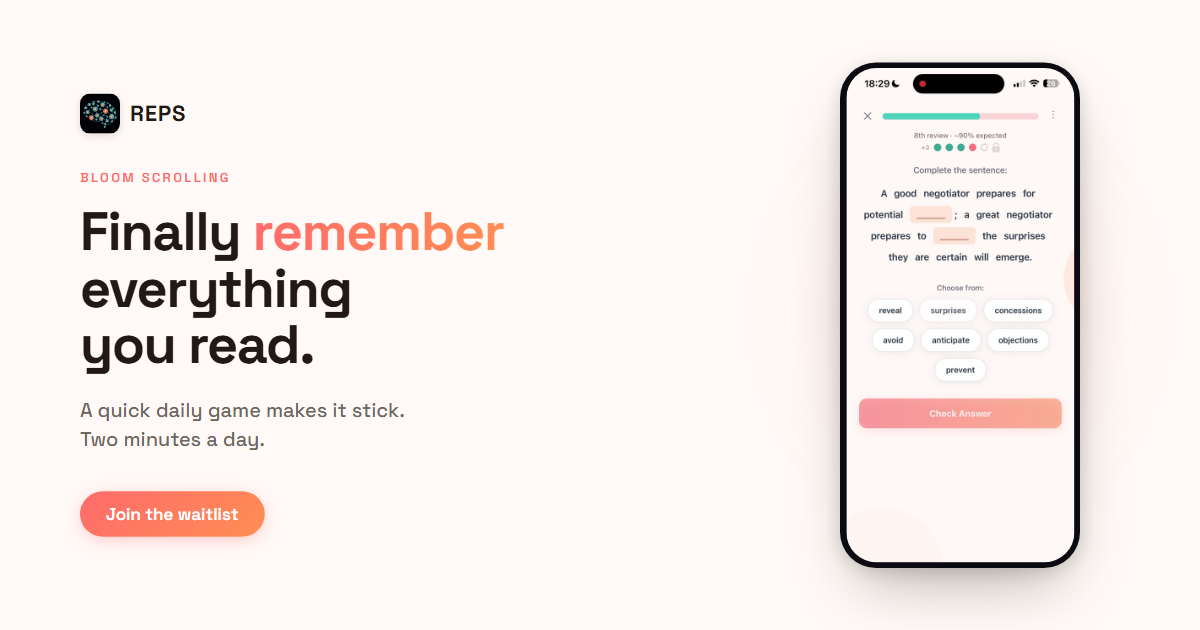
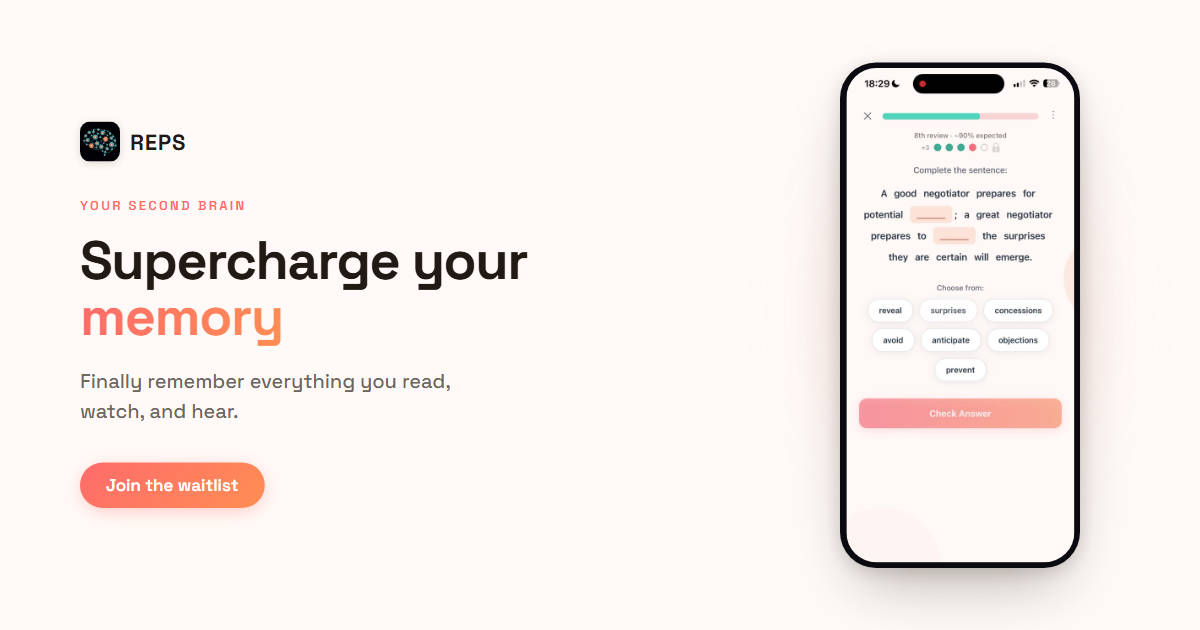
web(og): new OG card — Supercharge your memory / Your second brain eyebrow

Changed region(s): [[0.0617, 0.1508, 0.4317, 0.6635], [0.0617, 0.6937, 0.2467, 0.8746]]

diff --git a/og-card-v3-gen.html b/og-card-v3-gen.html
@@ -1,75 +1,162 @@
 <!doctype html>
 <html>
-<head>
-<meta charset="utf-8"/>
-<style>
-  * { margin: 0; padding: 0; box-sizing: border-box; }
-  html, body { width: 1200px; height: 630px; overflow: hidden; }
-  body {
-    background: #fffaf7;
-    font-family: "Space Grotesk", system-ui, -apple-system, sans-serif;
-    display: flex; align-items: center;
-    padding: 0 80px;
-    gap: 60px;
-  }
-  .left { flex: 1; }
-  .logo { display: flex; align-items: center; gap: 10px; margin-bottom: 36px; }
-  .logo img { width: 40px; height: 40px; border-radius: 10px; box-shadow: 0 2px 8px rgba(33,26,20,.14); }
-  .logo-text { font-weight: 700; font-size: 22px; letter-spacing: 0.04em; color: #211a14; }
-  .eyebrow { font-size: 13px; font-weight: 600; letter-spacing: 0.18em; text-transform: uppercase; color: #ff6b6b; margin-bottom: 18px; }
-  h1 { font-weight: 700; font-size: 54px; line-height: 1.04; letter-spacing: -0.025em; color: #211a14; margin-bottom: 22px; }
-  .grad { background: linear-gradient(100deg, #ff6b6b, #ff8e53); -webkit-background-clip: text; background-clip: text; -webkit-text-fill-color: transparent; }
-  .sub { font-size: 20px; color: rgba(33,26,20,.68); line-height: 1.5; }
-  .badge {
-    display: inline-flex; align-items: center; gap: 8px;
-    margin-top: 36px;
-    background: linear-gradient(135deg, #ff6b6b, #ff8e53);
-    color: #fff; font-weight: 600; font-size: 17px;
-    padding: 12px 26px; border-radius: 999px;
-    box-shadow: 0 4px 20px -4px rgba(255,107,107,.45);
-  }
-  .right {
-    flex: none; width: 320px;
-    display: flex; align-items: center; justify-content: center;
-    position: relative;
-  }
-  .right::before {
-    content: "";
-    position: absolute; left: -10%; right: -10%; top: 5%; bottom: 5%;
-    background: radial-gradient(ellipse, rgba(255,107,107,.14) 0%, transparent 70%);
-    filter: blur(28px);
-  }
-  .phone {
-    position: relative; z-index: 1;
-    width: 240px;
-    background: #0a0a10; border-radius: 36px; padding: 6px;
-    box-shadow: 0 4px 16px rgba(33,26,20,.14), 0 28px 64px -20px rgba(33,26,20,.36);
-  }
-  .screen {
-    width: 100%; aspect-ratio: 540/1170; border-radius: 30px;
-    overflow: hidden; background: #040409;
-  }
-  .screen img { width: 100%; height: 100%; object-fit: cover; }
-</style>
-<link href="https://fonts.googleapis.com/css2?family=Space+Grotesk:wght@500;600;700&display=swap" rel="stylesheet"/>
-</head>
-<body>
-  <div class="left">
-    <div class="logo">
-      <img src="product/assets/app-icon.png" alt="REPS"/>
-      <span class="logo-text">REPS</span>
+  <head>
+    <meta charset="utf-8" />
+    <style>
+      * {
+        margin: 0;
+        padding: 0;
+        box-sizing: border-box;
+      }
+      html,
+      body {
+        width: 1200px;
+        height: 630px;
+        overflow: hidden;
+      }
+      body {
+        background: #fffaf7;
+        font-family:
+          "Space Grotesk",
+          system-ui,
+          -apple-system,
+          sans-serif;
+        display: flex;
+        align-items: center;
+        padding: 0 80px;
+        gap: 60px;
+      }
+      .left {
+        flex: 1;
+      }
+      .logo {
+        display: flex;
+        align-items: center;
+        gap: 10px;
+        margin-bottom: 36px;
+      }
+      .logo img {
+        width: 40px;
+        height: 40px;
+        border-radius: 10px;
+        box-shadow: 0 2px 8px rgba(33, 26, 20, 0.14);
+      }
+      .logo-text {
+        font-weight: 700;
+        font-size: 22px;
+        letter-spacing: 0.04em;
+        color: #211a14;
+      }
+      .eyebrow {
+        font-size: 13px;
+        font-weight: 600;
+        letter-spacing: 0.18em;
+        text-transform: uppercase;
+        color: #ff6b6b;
+        margin-bottom: 18px;
+      }
+      h1 {
+        font-weight: 700;
+        font-size: 54px;
+        line-height: 1.04;
+        letter-spacing: -0.025em;
+        color: #211a14;
+        margin-bottom: 22px;
+      }
+      .grad {
+        background: linear-gradient(100deg, #ff6b6b, #ff8e53);
+        -webkit-background-clip: text;
+        background-clip: text;
+        -webkit-text-fill-color: transparent;
+      }
+      .sub {
+        font-size: 20px;
+        color: rgba(33, 26, 20, 0.68);
+        line-height: 1.5;
+      }
+      .badge {
+        display: inline-flex;
+        align-items: center;
+        gap: 8px;
+        margin-top: 36px;
+        background: linear-gradient(135deg, #ff6b6b, #ff8e53);
+        color: #fff;
+        font-weight: 600;
+        font-size: 17px;
+        padding: 12px 26px;
+        border-radius: 999px;
+        box-shadow: 0 4px 20px -4px rgba(255, 107, 107, 0.45);
+      }
+      .right {
+        flex: none;
+        width: 320px;
+        display: flex;
+        align-items: center;
+        justify-content: center;
+        position: relative;
+      }
+      .right::before {
+        content: "";
+        position: absolute;
+        left: -10%;
+        right: -10%;
+        top: 5%;
+        bottom: 5%;
+        background: radial-gradient(
+          ellipse,
+          rgba(255, 107, 107, 0.14) 0%,
+          transparent 70%
+        );
+        filter: blur(28px);
+      }
+      .phone {
+        position: relative;
+        z-index: 1;
+        width: 240px;
+        background: #0a0a10;
+        border-radius: 36px;
+        padding: 6px;
+        box-shadow:
+          0 4px 16px rgba(33, 26, 20, 0.14),
+          0 28px 64px -20px rgba(33, 26, 20, 0.36);
+      }
+      .screen {
+        width: 100%;
+        aspect-ratio: 540/1170;
+        border-radius: 30px;
+        overflow: hidden;
+        background: #040409;
+      }
+      .screen img {
+        width: 100%;
+        height: 100%;
+        object-fit: cover;
+      }
+    </style>
+    <link
+      href="https://fonts.googleapis.com/css2?family=Space+Grotesk:wght@500;600;700&display=swap"
+      rel="stylesheet"
+    />
+  </head>
+  <body>
+    <div class="left">
+      <div class="logo">
+        <img src="product/assets/app-icon.png" alt="REPS" />
+        <span class="logo-text">REPS</span>
+      </div>
+      <div class="eyebrow">Your second brain</div>
+      <h1>Supercharge your <span class="grad">memory</span></h1>
+      <p class="sub">
+        Finally remember everything you read,<br />watch, and hear.
+      </p>
+      <div class="badge">Join the waitlist</div>
     </div>
-    <div class="eyebrow">Bloom scrolling</div>
-    <h1>Finally <span class="grad">remember</span><br>everything<br>you read.</h1>
-    <p class="sub">A quick daily game makes it stick.<br>Two minutes a day.</p>
-    <div class="badge">Join the waitlist</div>
-  </div>
-  <div class="right">
-    <div class="phone">
-      <div class="screen">
-        <img src="beats/quiz-frame.jpg" alt=""/>
+    <div class="right">
+      <div class="phone">
+        <div class="screen">
+          <img src="beats/quiz-frame.jpg" alt="" />
+        </div>
       </div>
     </div>
-  </div>
-</body>
+  </body>
 </html>
